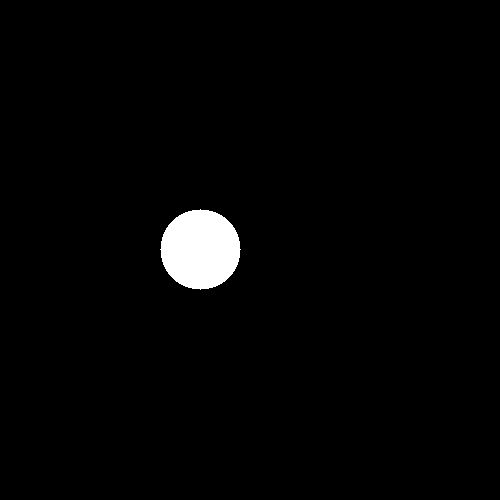
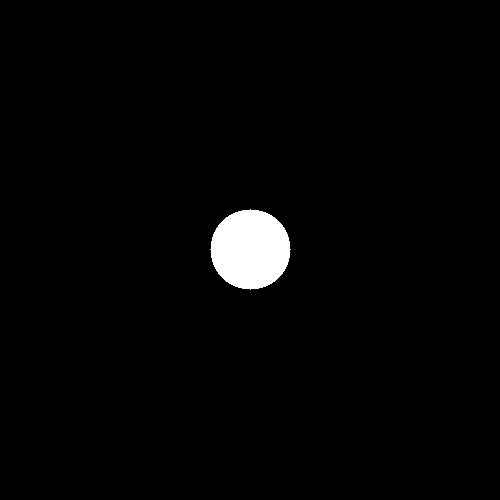
readme mosaique

Changed region(s): [[0.3, 0.42, 0.6, 0.6]]

diff --git a/src/main.cpp b/src/main.cpp
@@ -79,8 +79,8 @@ void rgb_split(sil::Image& image){
     for (int x{0}; x < image.width(); x++){
         for (int y{0}; y < image.height(); y++){
             if(x>=15 and x<=new_image.width()-15){
-                new_image.pixel(x+15,y).r = image.pixel(x-15, y).r;
-                new_image.pixel(x-15,y).b = image.pixel(x+15, y).b;
+                new_image.pixel(x+14,y).r = image.pixel(x-14, y).r;
+                new_image.pixel(x-14,y).b = image.pixel(x+14, y).b;
             }
             new_image.pixel(x, y).g = image.pixel(x, y).g;
         }
@@ -149,7 +149,7 @@ void rosace(sil::Image& image, int rayon, int nb_petale){
 }
 
 void mosaique(sil::Image& image){
-    sil::Image new_image{image.width()*5/*width*/, image.height()*5/*height*/};
+    sil::Image new_image{image.width()*4/*width*/, image.height()*4/*height*/};
     for(int x{0}; x<new_image.width(); x++){
         for(int y{0}; y<new_image.height(); y++){
             new_image.pixel(x, y) = image.pixel(x%image.width(), y%image.height());
@@ -167,7 +167,6 @@ void mosaique_miroir(sil::Image& image, int nb){
             }
             else{
                 new_image.pixel(x, y) = image.pixel(image.width()-(x%image.width()+1), y%image.height());
-            //     std::swap(new_image.pixel(x, y), image.pixel(image.width()-(x%image.width()+1), y%image.height()));
             }
         }
     }
@@ -178,7 +177,7 @@ void mosaique_miroir_fail(sil::Image& image, int nb){
     sil::Image new_image{image.width()*5/*width*/, image.height()*5/*height*/};
     for(int x{0}; x<new_image.width(); x++){
         for(int y{0}; y<new_image.height(); y++){
-            if((x%image.width()/nb)%2 == 0){
+            if((x%image.width())%2 == 0){
                 new_image.pixel(x, y) = image.pixel(x%image.width(), y%image.height());
             }
         }
@@ -289,143 +288,143 @@ int main()
 {
     set_random_seed(1);
 
-    // //EX1
-    // {
-    //     sil::Image image{"images/logo.png"};
-    //     green_only(image);
-    //     image.save("output/green_only.png");
-    // }
+    //EX1
+    {
+        sil::Image image{"images/logo.png"};
+        green_only(image);
+        image.save("output/green_only.png");
+    }
     
-    // //EX2
-    // {
-    //     sil::Image image{"images/logo.png"};
-    //     echange_canaux(image);
-    //     image.save("output/echange_canaux.png");
-    // }
+    //EX2
+    {
+        sil::Image image{"images/logo.png"};
+        echange_canaux(image);
+        image.save("output/echange_canaux.png");
+    }
 
-    // // //EX3
-    // {
-    //     sil::Image image{"images/logo.png"};
-    //     gris(image);
-    //     image.save("output/gris.png");
-    // }
+    // //EX3
+    {
+        sil::Image image{"images/logo.png"};
+        gris(image);
+        image.save("output/gris.png");
+    }
 
-    // //EX4
-    // {
-    //     sil::Image image{"images/logo.png"};
-    //     negatif(image);
-    //     image.save("output/negatif.png");
-    // }
+    //EX4
+    {
+        sil::Image image{"images/logo.png"};
+        negatif(image);
+        image.save("output/negatif.png");
+    }
 
-    // //EX5
-    // {
-    //     degrade();
-    // }
+    //EX5
+    {
+        degrade();
+    }
 
-    // //EX6
-    // {
-    //     sil::Image image{"images/logo.png"};
-    //     miroir(image);
-    //     image.save("output/miroir.png");
-    // }
+    //EX6
+    {
+        sil::Image image{"images/logo.png"};
+        miroir(image);
+        image.save("output/miroir.png");
+    }
 
-    // //EX7
-    // {
-    //     sil::Image image{"images/logo.png"};
-    //     bruit(image);
-    //     image.save("output/bruit.png");
-    // }
+    //EX7
+    {
+        sil::Image image{"images/logo.png"};
+        bruit(image);
+        image.save("output/bruit.png");
+    }
 
-    // //EX8
-    // {
-    //     sil::Image image{"images/logo.png"};
-    //     rota90(image);
-    // }
+    //EX8
+    {
+        sil::Image image{"images/logo.png"};
+        rota90(image);
+    }
 
-    // //EX9
-    // {
-    //     sil::Image image{"images/logo.png"};
-    //     rgb_split(image);
-    // }
+    //EX9
+    {
+        sil::Image image{"images/logo.png"};
+        rgb_split(image);
+    }
     
-    // // //EX10 moins de lumière
-    // {
-    //     sil::Image image{"images/photo.jpg"};
-    //     luminosite_assombrir(image);
-    //     image.save("output/luminosite_assombrir.png");
-    // }
+    //EX10 moins de lumière
+    {
+        sil::Image image{"images/photo.jpg"};
+        luminosite_assombrir(image);
+        image.save("output/luminosite_assombrir.png");
+    }
     
-    // //EX10 moins de lumière
-    // {
-    //     sil::Image image{"images/photo.jpg"};
-    //     luminosite_eclaircir(image);
-    //     image.save("output/luminosite_eclaircir.png");
-    // }
+    //EX10 moins de lumière
+    {
+        sil::Image image{"images/photo.jpg"};
+        luminosite_eclaircir(image);
+        image.save("output/luminosite_eclaircir.png");
+    }
 
-    // //EX11
-    // {
-    //     sil::Image image{500/*width*/, 500/*height*/};
-    //     disque(image);
-    //     image.save("output/disque.png");
-    // }
+    //EX11
+    {
+        sil::Image image{500/*width*/, 500/*height*/};
+        disque(image);
+        image.save("output/disque.png");
+    }
     
-    // //EX12
-    // {
-    //     sil::Image image{500/*width*/, 500/*height*/};
-    //     cercle(image);
-    //     image.save("output/cercle.png");
-    // }
+    //EX12
+    {
+        sil::Image image{500/*width*/, 500/*height*/};
+        cercle(image);
+        image.save("output/cercle.png");
+    }
 
-    // //EX13
-    // {
-    //     //animation();
-    // }
+    //EX13
+    {
+        animation();
+    }
 
-    // //EX14
-    // {
-    //     sil::Image image{500/*width*/, 500/*height*/};
-    //     rosace(image, 100, 12);
-    //     image.save("output/rosace.png");
-    // }
+    //EX14
+    {
+        sil::Image image{500/*width*/, 500/*height*/};
+        rosace(image, 100, 12);
+        image.save("output/rosace.png");
+    }
 
-    // //EX15
-    // {
-    //     sil::Image image{"images/logo.png"};
-    //     mosaique(image);
-    //     image.save("output/mosaique.png");
-    // }
+    //EX15
+    {
+        sil::Image image{"images/logo.png"};
+        mosaique(image);
+        image.save("output/mosaique.png");
+    }
 
-    //  //EX16_fails
-    // {
-    //     sil::Image image{"images/logo.png"};
-    //     mosaique_miroir_fail(image, 4);
-    //     image.save("output/mosaique_miroir_fail.png");
-    // }
+    //EX16_fails
+    {
+        sil::Image image{"images/logo.png"};
+        mosaique_miroir_fail(image, 5);
+        image.save("output/mosaique_miroir_fail.png");
+    }
 
     //EX16
     {
         sil::Image image{"images/logo.png"};
-        mosaique_miroir(image, 6);
+        mosaique_miroir(image, 5);
         image.save("output/mosaique_miroir.png");
     }
 
-    // //EX17
-    // {
-    //     sil::Image image{"images/logo.png"};
-    //     glitch(image);
-    //     image.save("output/glitch.png");
-    // }
+    //EX17
+    {
+        sil::Image image{"images/logo.png"};
+        glitch(image);
+        image.save("output/glitch.png");
+    }
 
-    // //EX18
-    // {
-    //     sil::Image image{"images/logo.png"};
-    //     tri(image);
-    // }
+    //EX18
+    {
+        sil::Image image{"images/logo.png"};
+        tri(image);
+    }
 
-    // //EX19
-    // {
-    //     fractale();
-    // }
+    //EX19
+    {
+        fractale();
+    }
 
     //EX20 blur
     {

diff --git a/README.md b/README.md
@@ -2,58 +2,91 @@
 ## *<ins>♦ Ex 1 : Ne garder que le vert</ins>*
 Passage des canaux rouge et bleu à 0. (pas besoin des x et y)
 
+![image](./output/green_only.png)
+
 ## *<ins>♦ Ex 2 : Échanger les canaux</ins>*
 Utilisation de std::swap(color.g, color.b) pour échanger les canaux vert et bleu.
 Sinon manuellement on doit mémoriser les composantes de chaque pixel avant de faire une modification pour ne pas perdre l'information.
 
+![image](./output/echange_canaux.png)
+
 ## *<ins>♦ Ex 3 : Noir & Blanc</ins>*
 Il faut que tous les canaux soit égaux. La formule du gris est gris = 0.2126 * r + 0.7152 * g + 0.0722 * b
+
+![image](./output/gris.png)
 
 ## *<ins>♦ Ex 4 : Négatif</ins>*
 Création d'une base {1, 1, 1} pour ne représenter que le blanc (le max), puis on calcule la différence entre ce blanc et la couleur du pixel pour inverser la couleur.
 
+![image](./output/negatif.png)
+
 ## *<ins>♦ Ex 5 : Dégradé</ins>*
 La nuance de gris va dépendre de x (la longueur). On parcours toute l'image en mettant chaque pixel avec les trois même canaux dépendant de x et de la longueur de l'image.
+
+![image](./output/degrade.png)
 
 ## *<ins>♦ Ex 6 : Miroir</ins>*
 Parcours de la moitié de l'image en x (dans la longueur) et on utilise std::swap() pour interchanger le symétrique du pixel par rapport à la verticale qui passe au centre d l'image.
 
+![image](./output/miroir.png)
+
 ## *<ins>♦ Ex 7 : Image bruitée</ins>*
 Utilisation des fonctions random fournies, ici true_with_probability et random_float pour choisir aléatoirement un pixel est changer ses couleurs de façon aussi aléatoire.
+
+![image](./output/bruit.png)
 
 ## *<ins>♦ Ex 8 : Rotation de 90°</ins>*
 Mathématiquement, les axes sont interchangés lors d'une rotation à 90°. Ici x devient y et y devient -x. On change donc les pixels en créant une nouvelle image noir qui à pour dimension en x en y et les y en x et en faisant attention à rester dans l'image au moment de remplir la nouvelle image.
 
-## *<ins>♦ Ex 9 : RDB Split</ins>*
+![image](./output/negatif.png)
+
+## *<ins>♦ Ex 9 : RGB Split</ins>*
 On crée une nouvelle image dans laquelle on va recopier les différents canaux de couleurs en ajoutant des contraintes.
 Je fais un décalage de 15 pixels vers la droite pour le canal rouge et 15 vers la gauche pour le canal bleu. On doit mettre une condition de marge pour ne pas dépasser, qui sera donc ici de 15 pixels.
+
+![image](./output/rgb_split.png)
 
 ## *<ins>♦ Ex 10 : Luminosité</ins>*
 - J'utilise la fonction carré pour assombrir l'image, en multipliant les canaux de chaque pixel par eux-mêmes.
 
+![image](./output/luminosite_assombrir.png)
+
 - J'utilise la fonction std::pow() de la librairie cmath pour éclairer l'image. Il suffit de choisir un flottant inférieur à 1 pour avoir cet effet, ici 0.4f.
+
+![image](./output/luminosite_eclaircir.png)
 
 ## *<ins>♦ Ex 11 : Disque</ins>*
 Grace à l'équation d'un cercle adapté au centre de l'image n'étant pas l'origine, on peut mettre une condition sur le changement des pixels.
-1 étant la valeur la plus forte de lumière, on utilise glm::vec3{1} pour faire un pixel blanc.
+1 étant la valeur la plus forte de lumière.
 
+![image](./output/disque.png)
 
 ## *<ins>♦ Ex 12 : Cercle</ins>*
 Le cercle fonctionne exactement de la même façon que le disque, on doit simplement rajouter une condition qui évolue en fonction de la thickness, pour créer un rebord. (l'intérieur de tout le disque n'est plus en blanc)
+
+![image](./output/cercle.png)
 
 ## *<ins>♦ Ex 13 : Animation</ins>*
 J'ai adapté la fonction disque avec des paramètres pour pouvoir la réutiliser. Il ne reste plus qu'à se déplacer de quelques pixels et refaire un disque à chaque fois en sauvegardant bien chaque image et en recréant une nouvelle image à chaque itération sinon on garde les disques précédents.
 Puis il ne reste plus qu'à transformer les images en animation.
 
+![image](./output/animation/anim.gif)
+
 ## *<ins>♦ Ex 14 : Rosace</ins>*
 J'ai adapté la fonction cercle avec des paramètres pour pouvoir la réutiliser. J'ai voulu gérer le nombre de pétales donc je boucle sur ce dernier. Le calcul de l'angle se fait en radiant en divisant une tour complet c'est à dire 2*Pi par le nombre de pétales et l'angle augmentera au fil des itérations.
-J'utilise std::cos et std::sin qui donne les coordonnées d'un point sur un cercle unitaire pour calculer la prochaine position.
+<ins>*Remarque*</ins> : std::cos et std::sin qui donne les coordonnées d'un point sur un cercle unitaire.
+
+![image](./output/rosace.png)
 
 ## *<ins>♦ Ex 15 : Mosaïque</ins>*
+On a besoin de se servir du module (reste de la division euclidienne) pour adapter le parcours de la nouvelle image plus grande.
 
+![image](./output/mosaique.png)
 
 ## *<ins>♦ Ex 16 : Mosaïque miroir</ins>*
+On a besoin de savoir en fonction de la taille de l'image de base si on est sur une colonne paire pour recopier comme dans mosaïque. Sinon on recopie à l'envers.
 
+- On peut faire un effet un peu rétro
 
 ## *<ins>♦ Ex 17 : Glitch</ins>*
 Probabilité très faible sinon l'image est trop susceptible de changer à chaque pixel et les modifications de se marcher dessus.
